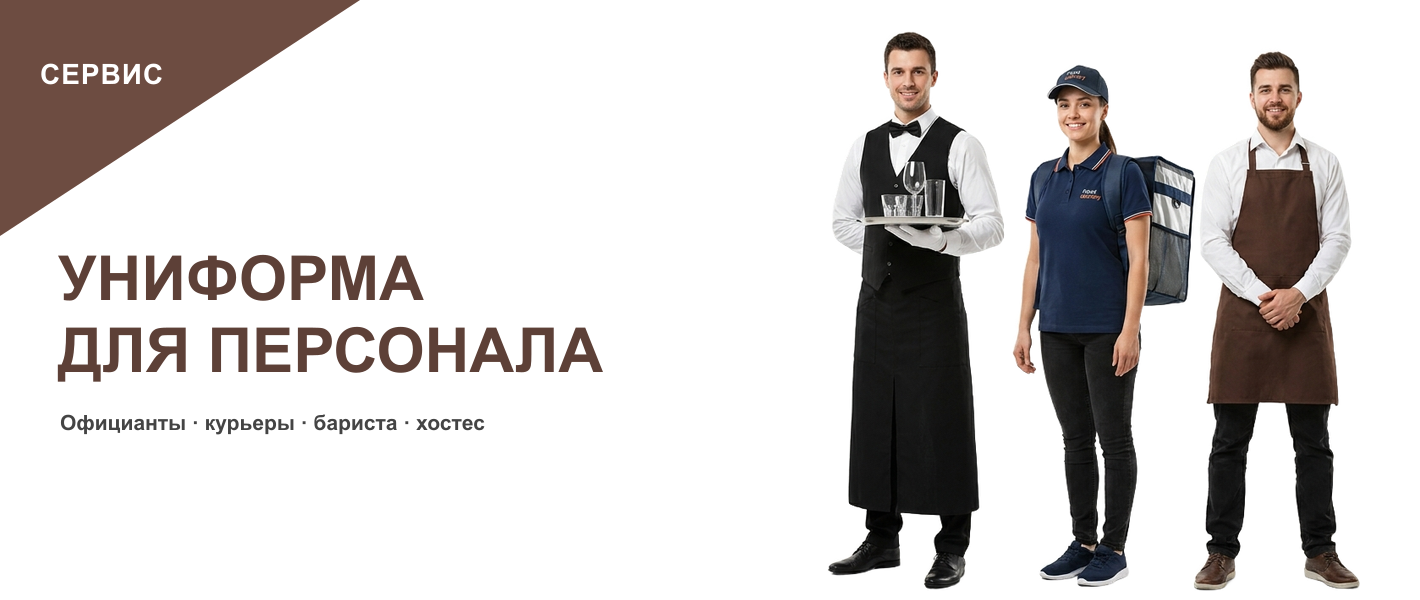
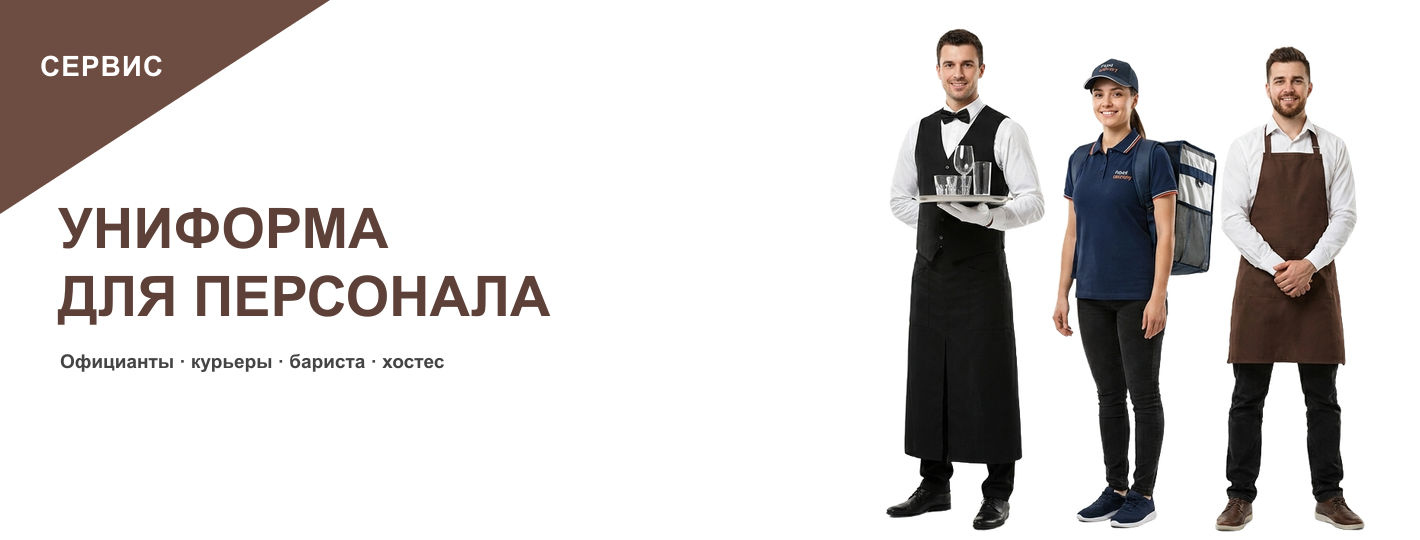
Главный баннер «Одежда для всех профессий» вместо красного; все баннеры -10% по высоте (540/1296)

diff --git a/app/(public)/page.tsx b/app/(public)/page.tsx
@@ -90,10 +90,10 @@ export default function HomePage() {
       {/* ══════════ HERO ══════════ */}
       <section style={{ position: 'relative', width: '100%', overflow: 'hidden' }}>
         <style>{`
-          .hero-banner-img { display: block; width: 100%; aspect-ratio: 1420 / 600; object-fit: cover; object-position: center; background: transparent; }
-          .hero-skeleton { width: 100%; aspect-ratio: 1420 / 600; background: linear-gradient(110deg, #f4f4f4 30%, #ececec 50%, #f4f4f4 70%); background-size: 200% 100%; animation: heroShimmer 1.4s ease-in-out infinite; }
+          .hero-banner-img { display: block; width: 100%; aspect-ratio: 1420 / 540; object-fit: cover; object-position: center; background: transparent; }
+          .hero-skeleton { width: 100%; aspect-ratio: 1420 / 540; background: linear-gradient(110deg, #f4f4f4 30%, #ececec 50%, #f4f4f4 70%); background-size: 200% 100%; animation: heroShimmer 1.4s ease-in-out infinite; }
           @keyframes heroShimmer { 0% { background-position: 200% 0 } 100% { background-position: -200% 0 } }
-          @media (max-width: 768px) { .hero-banner-img { aspect-ratio: 1080 / 1440; } .hero-skeleton { aspect-ratio: 1080 / 1440; } }
+          @media (max-width: 768px) { .hero-banner-img { aspect-ratio: 1080 / 1296; } .hero-skeleton { aspect-ratio: 1080 / 1296; } }
         `}</style>
         {!bannersLoaded ? (
           /* Skeleton — yuklanguncha joyni band qiladi, sakramaydi, animatsiya yo'q */

diff --git a/prisma/seed.js b/prisma/seed.js
@@ -32,12 +32,14 @@ async function main() {
 
   // Banners — слайдер (автопрокрутка каждые 5 сек). order: меньше = раньше. RU + UZ (по языку сайта)
   const bannerSeed = [
-    { id: 'banner-hero-classic', base: '/banners/banner-hero-classic', ext: 'jpg', order: 0 },
-    { id: 'banner-spec-2026',    base: '/banners/banner-spec-2026',    ext: 'png', order: 1 },
-    { id: 'banner-med',          base: '/banners/banner-med',          ext: 'png', order: 2 },
-    { id: 'banner-con',          base: '/banners/banner-con',          ext: 'jpg', order: 3 },
-    { id: 'banner-srv',          base: '/banners/banner-srv',          ext: 'png', order: 4 },
+    { id: 'banner-all',       base: '/banners/banner-all',       ext: 'png', order: 0 },
+    { id: 'banner-spec-2026', base: '/banners/banner-spec-2026', ext: 'png', order: 1 },
+    { id: 'banner-med',       base: '/banners/banner-med',       ext: 'png', order: 2 },
+    { id: 'banner-con',       base: '/banners/banner-con',       ext: 'jpg', order: 3 },
+    { id: 'banner-srv',       base: '/banners/banner-srv',       ext: 'png', order: 4 },
   ];
+  // удаляем старый красный баннер, если он есть в БД
+  await prisma.banner.deleteMany({ where: { id: 'banner-hero-classic' } });
   for (const b of bannerSeed) {
     const data = {
       imageUrl:    `${b.base}.${b.ext}`,
